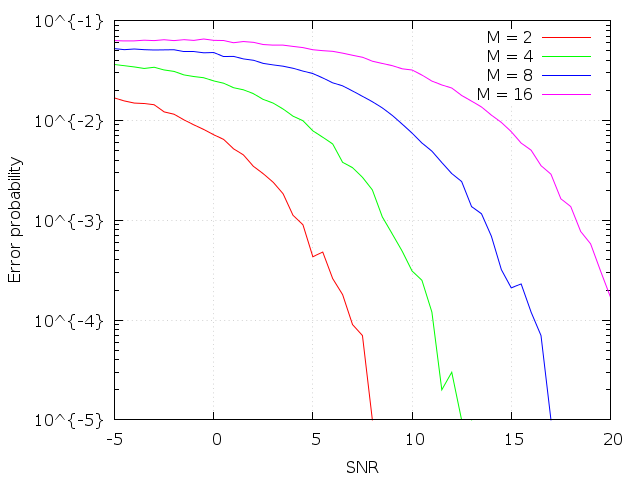
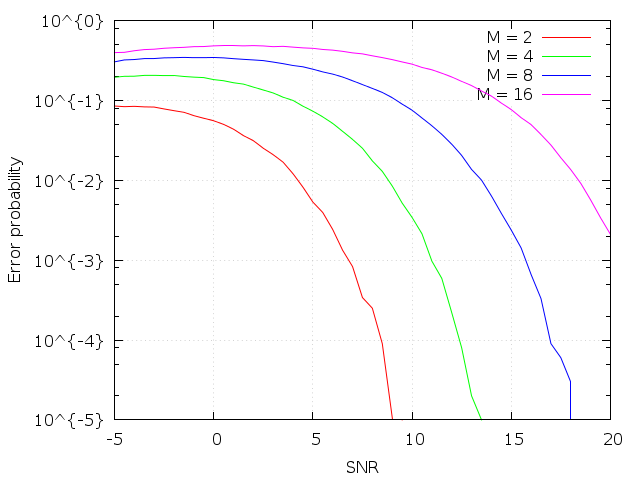
bug fixed: все числа s были положительные.

diff --git a/lab1/lab1/main.cpp b/lab1/lab1/main.cpp
@@ -16,10 +16,13 @@ int numberOfSymbolsErrorsOverall;
 gsl_rng *pRNG = gsl_rng_alloc(gsl_rng_mt19937);
 
 void message(){
-    
+    double p = 0;
     for (int j = 0; j < numberOfWords; j++){
         for (int i = 0; i < wordLenght; i++){
-            s[j][i] = (2 * ( gsl_rng_uniform_int(pRNG,M) ) + 1 - M) * d;
+            p = gsl_rng_uniform_int(pRNG,M);
+            s[j][i] = (2 * p + 1 - M) * d;
+//            s[j][i] = 2 * p + 1 - M ;
+//            cout << "  s = " << s[j][i] << "\n" ;
 //            cout << "s[j][i]" << s[j][i] << "\n";
         }
     }
@@ -39,11 +42,11 @@ void noize(double SNR){
 
 double errorProbabilityPerSymbol (){
     double *t = (double*)malloc((M+1) * sizeof(double));
-    cout << "\nM = " <<M;
+//    cout << "\nM = " <<M;
     for (int m = 0; m <= M ; m++) {
         t[m] = (2*m - M) * d;
 //        t[m] = 2*m - M;
-        cout << "\nt[m] = " << t[m];
+//        cout << "\nt[m] = " << t[m];
     }
     for (int wordNumber = 0; wordNumber < numberOfWords; wordNumber++){
         for (int numberOfSymbolInWord=0; numberOfSymbolInWord < wordLenght ; numberOfSymbolInWord++){
@@ -70,6 +73,8 @@ double errorProbabilityPerSymbol (){
 //            cout << "\nsPrediction = " << sPrediction[wordNumber][numberOfSymbolInWord];
             if (sPrediction[wordNumber][numberOfSymbolInWord]!=s[wordNumber][numberOfSymbolInWord] ) {
                 numberOfSymbolsErrorsOverall += 1;
+//                cout << "sPrediction = " << sPrediction[wordNumber][numberOfSymbolInWord] << "  s = " << s[wordNumber][numberOfSymbolInWord] << "\n";
+            }else{
 //                cout << "sPrediction = " << sPrediction[wordNumber][numberOfSymbolInWord] << "  s = " << s[wordNumber][numberOfSymbolInWord] << "\n";
             }
 
@@ -98,7 +103,7 @@ int main(int argc, const char * argv[])
             outfile2 << SNR;
         for (M=2; M<=16; M*=2) {
             d = sqrt(3 / (pow(M,2) - 1));
-            cout << "d = " << d << "\n";
+//            cout << "d = " << d << "\n";
             numberOfSymbolsErrorsOverall = 0;
             
             message();
